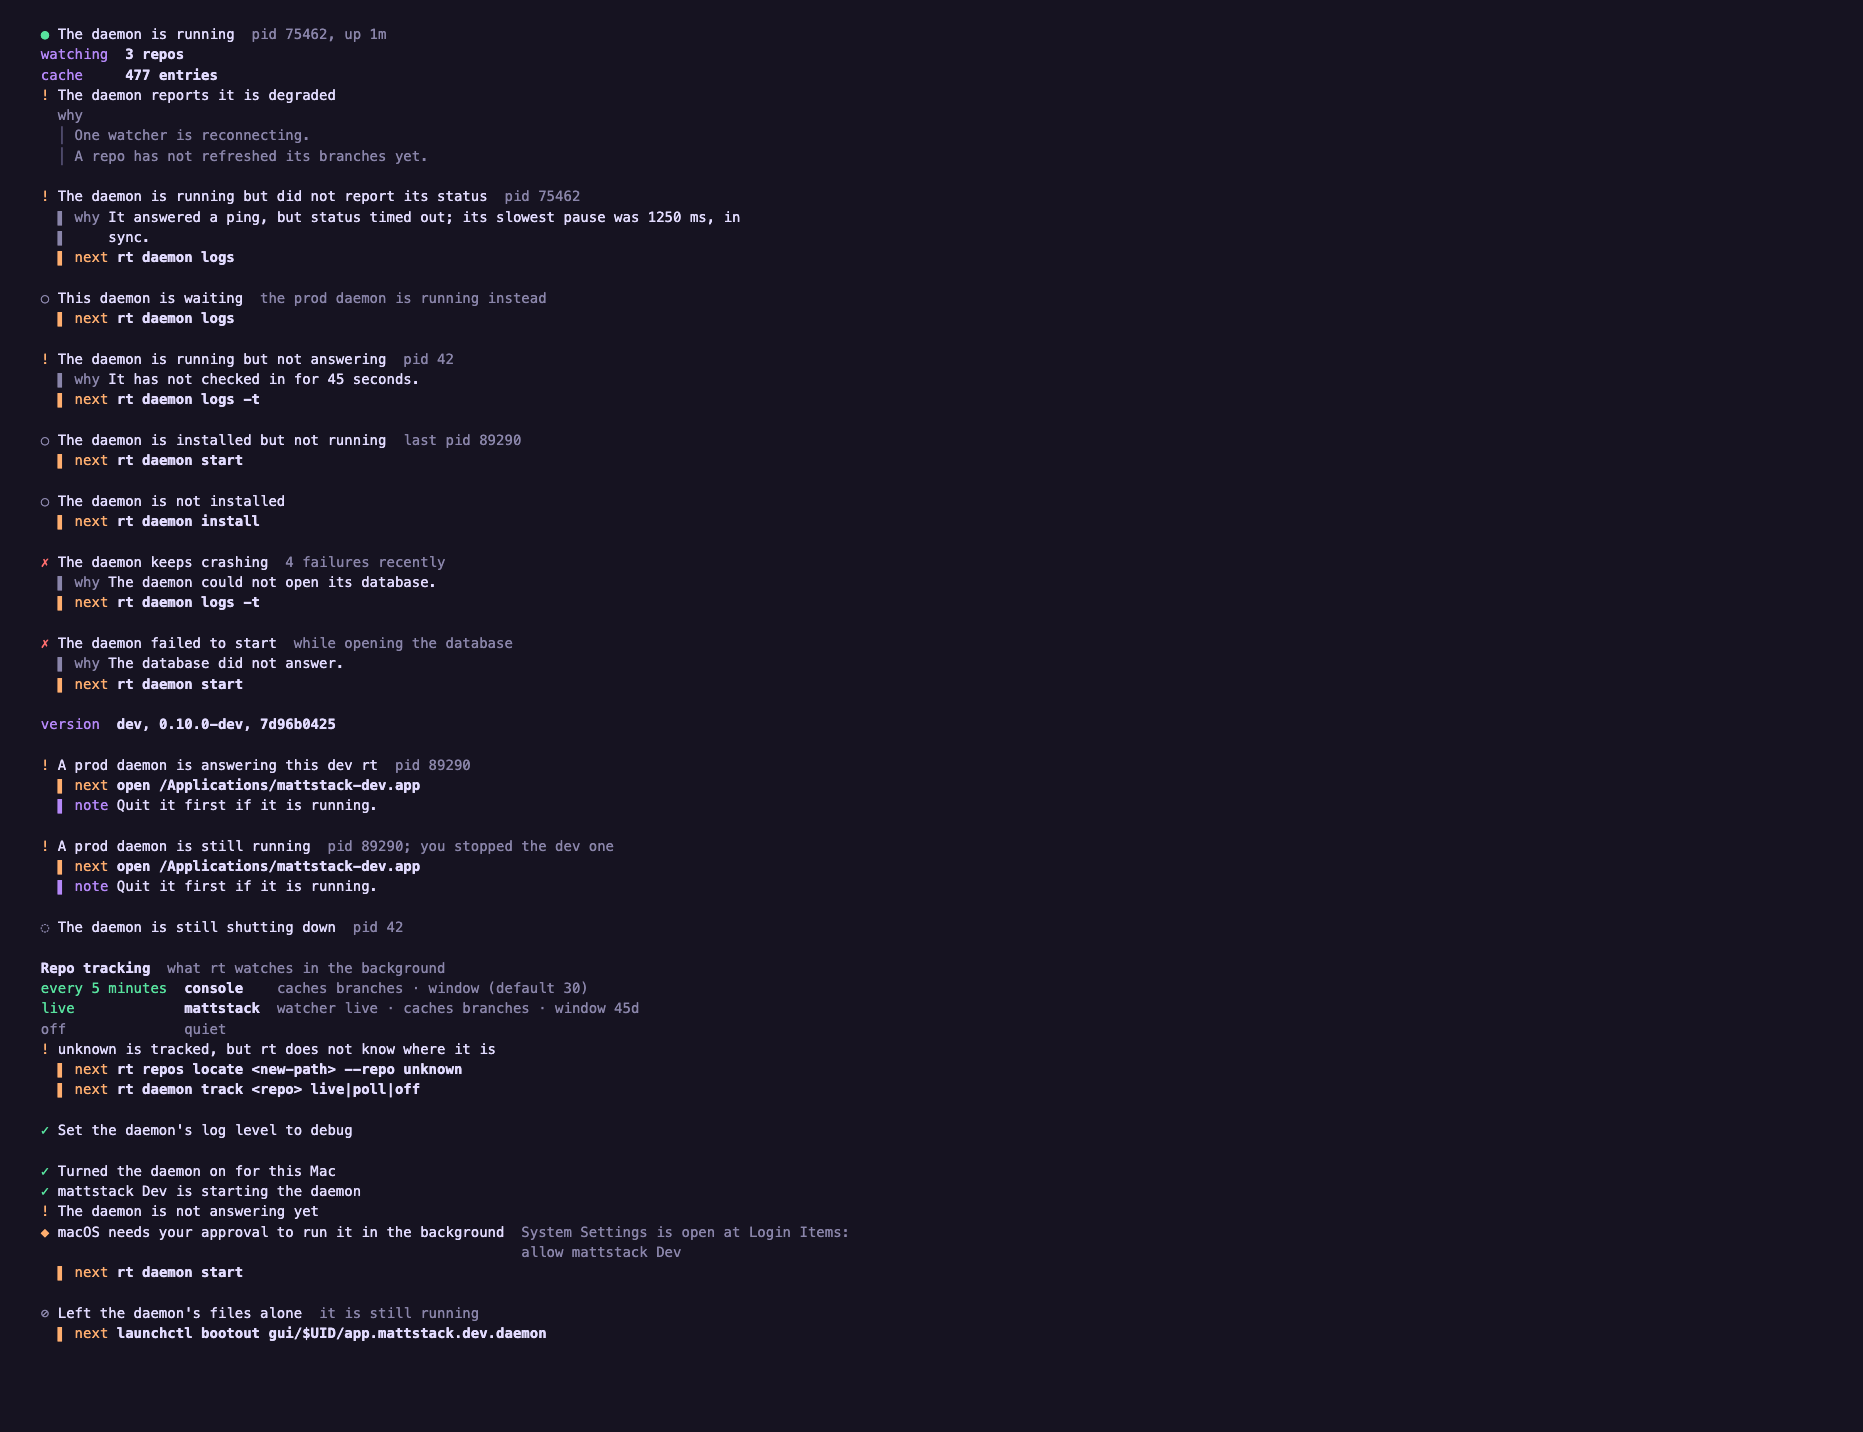
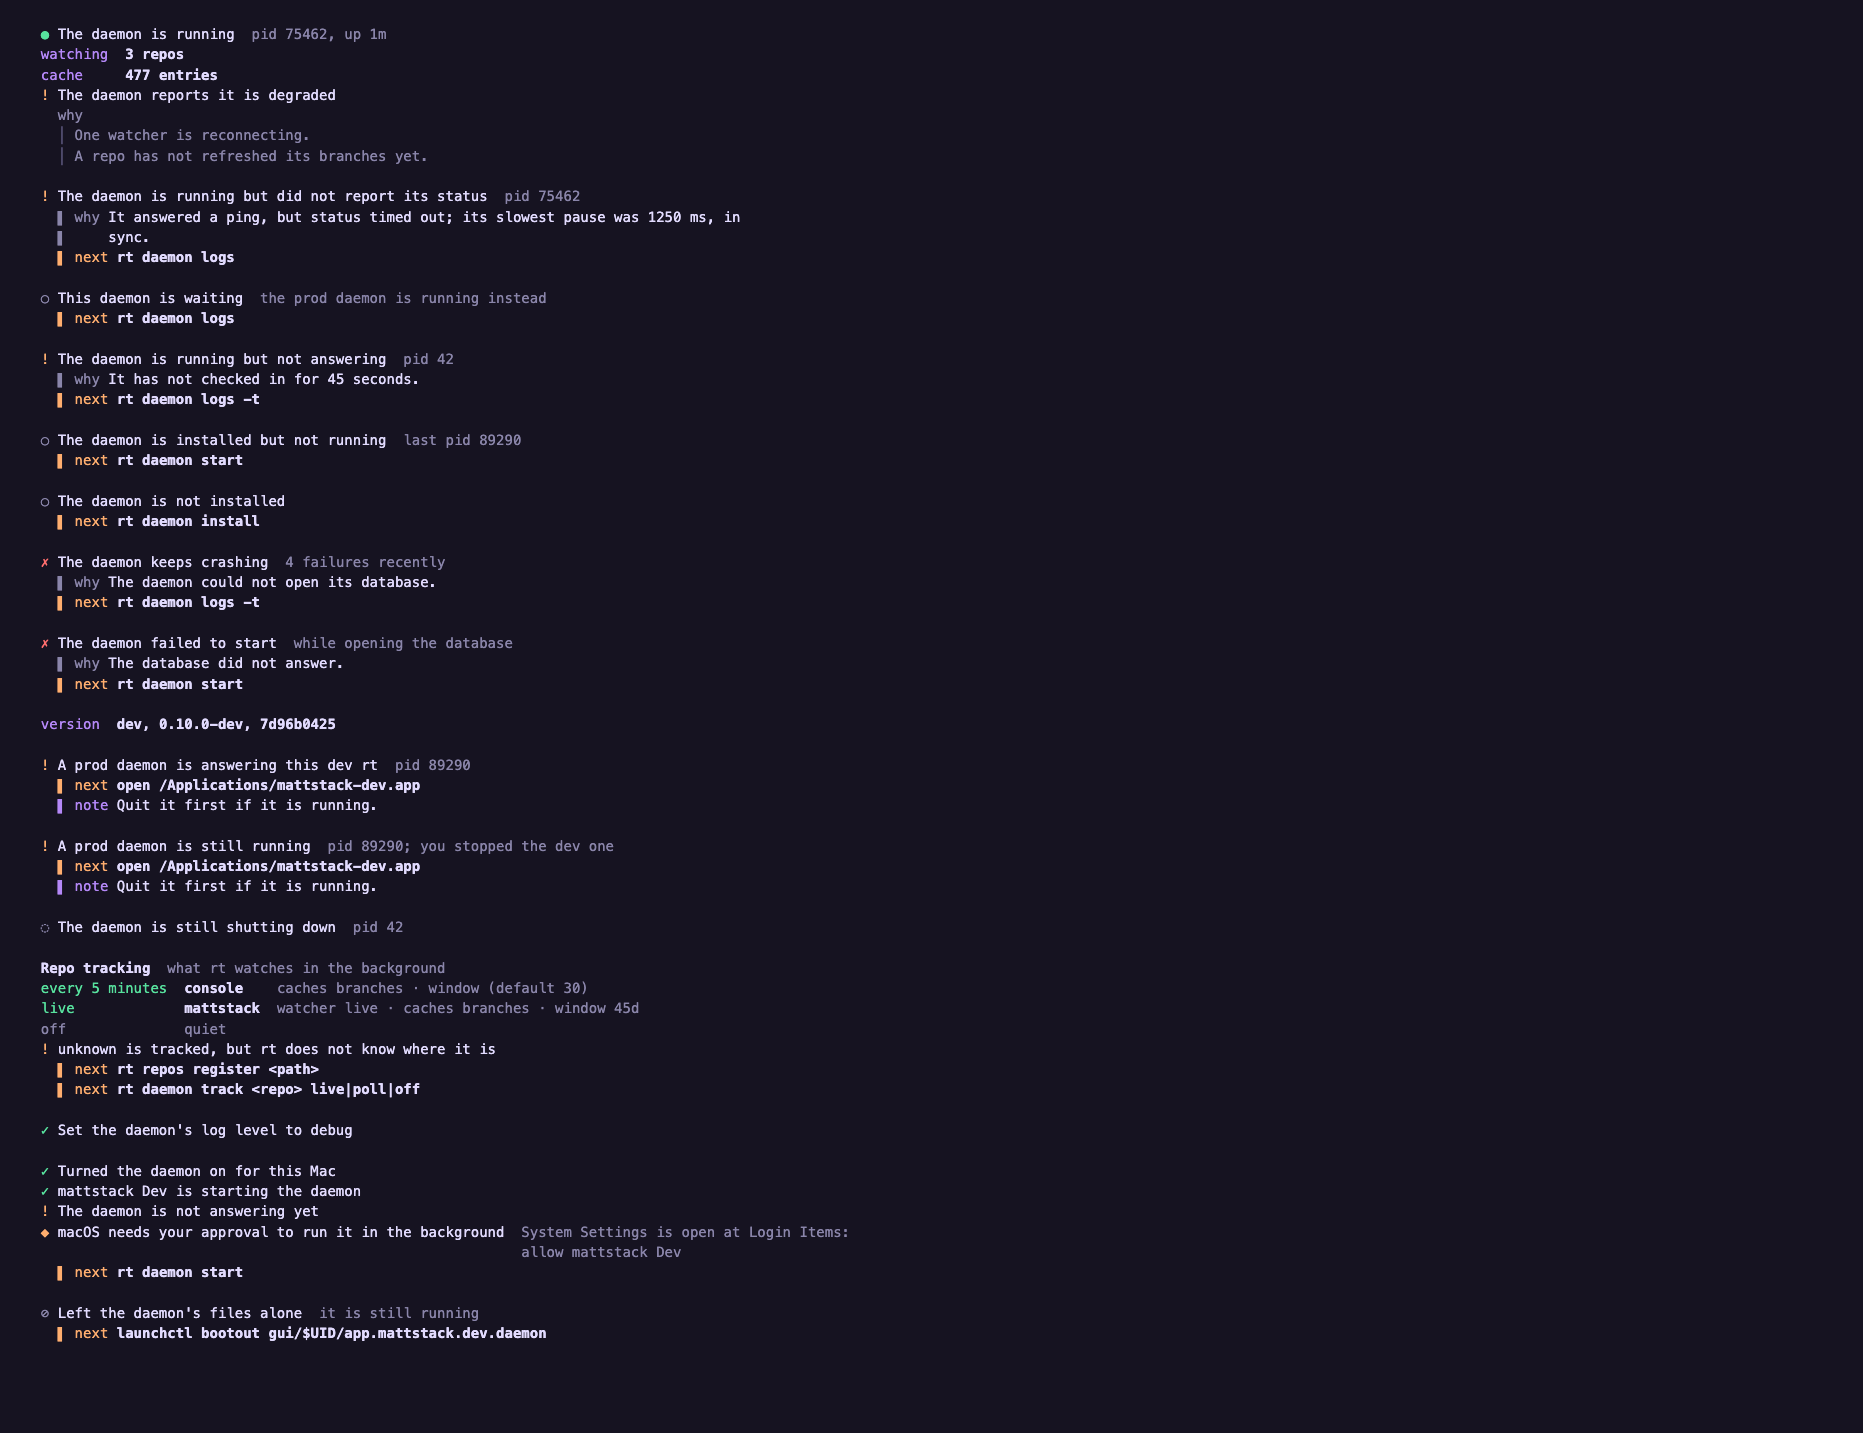
fix: correct daemon registration and request failure guidance

diff --git a/commands/daemon.ts b/commands/daemon.ts
@@ -584,7 +584,7 @@ export function trackListBlocks(repos: Record<string, string>, tracking: Record<
   }
   const blocks: Block[] = [out.section("Repo tracking", "what rt watches in the background", out.table(rows))];
   for (const identity of Object.keys(tracking).filter((n) => !repos[n])) {
-    blocks.push(out.line("warn", `${trackingLabel(identity)} is tracked, but rt does not know where it is`), out.callout("next", out.cmd(`rt repos locate <new-path> --repo ${trackingLabel(identity)}`)));
+    blocks.push(out.line("warn", `${trackingLabel(identity)} is tracked, but rt does not know where it is`), out.callout("next", out.cmd("rt repos register <path>")));
   }
   blocks.push(out.callout("next", out.cmd("rt daemon track <repo> live|poll|off")));
   return blocks;
@@ -651,7 +651,7 @@ export async function manageTracking(args: string[] = []): Promise<void> {
   let interactiveWindowDays: number | null | undefined; // undefined = untouched, null = clear
   if (!levelArg) {
     if (!resolved) {
-      out.fail({ title: `rt does not know a repo called ${repoArg}`, next: out.cmd(`rt repos locate <path> --repo ${repoArg}`) });
+      out.fail({ title: `rt does not know a repo called ${repoArg}`, next: out.cmd("rt repos register <path>") });
       return;
     }
     const identity = resolved.identity;
@@ -739,7 +739,7 @@ export async function manageTracking(args: string[] = []): Promise<void> {
   if (levelArg2 !== "off") {
     const repoPath = resolved?.path ?? null;
     if (!repoPath) {
-      out.fail({ title: `rt does not know a repo called ${repoArg}`, next: out.cmd(`rt repos locate <path> --repo ${repoArg}`) });
+      out.fail({ title: `rt does not know a repo called ${repoArg}`, next: out.cmd("rt repos register <path>") });
       return;
     }
     if (levelArg2 === "live") {
@@ -826,7 +826,7 @@ export async function manageTracking(args: string[] = []): Promise<void> {
     out.print(out.kv("live watchers", watching.length > 0 ? watching.join(", ") : "none"));
     if (levelArg2 !== "off") await daemonQuery("cache:refresh");
   } else {
-    out.print(out.line("pending", "The daemon is not running", "this applies when it next starts"));
+    out.print(out.line("pending", "The daemon did not apply this tracking change", "this applies when it next starts or refreshes"));
   }
 }
 
@@ -883,7 +883,7 @@ export async function showLogs(args: string[] = []): Promise<void> {
           : null;
       const { show } = nativeStderrDisplay(mtimeMs, daemonStartedAt);
       if (show) {
-        out.print(out.line("warn", "The daemon crashed since it last started", `captured ${new Date(mtimeMs).toLocaleString()}`), out.verbatim(content.split("\n").slice(-20), "what it printed"));
+        out.print(out.line("warn", daemonStartedAt === null ? "The daemon has captured native output" : "The daemon crashed since it last started", `captured ${new Date(mtimeMs).toLocaleString()}`), out.verbatim(content.split("\n").slice(-20), "what it printed"));
       } else {
         out.print(out.line("skipped", "No crash since this daemon started"));
       }
@@ -1181,7 +1181,7 @@ export async function setLogLevel(args: string[] = []): Promise<void> {
   const level = args.find((a) => !a.startsWith("--"));
   const res = await daemonQuery("daemon:log-level", level ? { level } : {});
   if (!res) {
-    out.fail({ title: "The daemon is not running", next: out.cmd("rt daemon start") });
+    out.fail({ title: "The daemon did not answer the log level request", next: out.cmd("rt daemon status") });
     return;
   }
   if (json) {

diff --git a/commands/__tests__/daemon-tracking.test.ts b/commands/__tests__/daemon-tracking.test.ts
@@ -28,6 +28,7 @@ import { machineSettingsPath, teamSettingsPath } from "../../lib/rt-paths.ts";
 import { getSetting } from "../../lib/settings/resolve.ts";
 import { serializeIdentity } from "../../lib/settings/identity.ts";
 import { deleteKvValue, getKvValue, setKvValue } from "../../lib/state/index.ts";
+import { DAEMON_SOCK_PATH } from "../../lib/daemon-config.ts";
 import { manageTracking, trackListBlocks } from "../daemon.ts";
 
 const REPO_NAME = "rt-rider-cli-wiring-repo";
@@ -135,6 +136,8 @@ describe("manageTracking off-branch (CLI wiring)", () => {
   test("poll prints its cadence and live refusal leaves the grant unchanged", async () => {
     await manageTracking([REPO_NAME, "poll"]);
     expect(io.stdout()).toContain(`[ok] Tracking ${REPO_NAME}: every 5 minutes`);
+    expect(io.stdout()).toContain("The daemon did not apply this tracking change");
+    expect(io.stdout()).toContain("this applies when it next starts or refreshes");
     const saved = getSetting<Record<string, unknown>>("rt.repoTracking").value;
     io.clear();
     await manageTracking([REPO_NAME, "live"]);
@@ -153,6 +156,31 @@ describe("manageTracking off-branch (CLI wiring)", () => {
     await manageTracking([REPO_NAME, "poll", "bad-cache"]);
     expect(io.stderr()).toContain('"bad-cache" has a cache rt does not know');
     expect(getSetting<Record<string, unknown>>("rt.repoTracking").value).toEqual(saved);
+  });
+
+  test("unknown repo guidance registers a checkout without changing tracking", async () => {
+    const saved = getSetting<Record<string, unknown>>("rt.repoTracking").value;
+    for (const args of [["rt-unknown-final-fix"], ["rt-unknown-final-fix", "poll"]]) {
+      io.clear();
+      await manageTracking(args);
+      expect(io.stderr()).toContain("next: rt repos register <path>");
+      expect(getSetting<Record<string, unknown>>("rt.repoTracking").value).toEqual(saved);
+    }
+  });
+
+  test("a rejected reconcile preserves intent and describes the unsuccessful request", async () => {
+    mkdirSync(dirname(DAEMON_SOCK_PATH), { recursive: true });
+    const server = Bun.serve({ unix: DAEMON_SOCK_PATH, fetch: () => Response.json({ ok: false, error: "busy" }) });
+    try {
+      await manageTracking([REPO_NAME, "poll"]);
+      expect(io.stdout()).toContain("The daemon did not apply this tracking change");
+      expect(io.stdout()).toContain("this applies when it next starts or refreshes");
+      expect(io.stdout()).not.toContain("The daemon is not running");
+      expect(getSetting<Record<string, unknown>>("rt.repoTracking").value[SERIALIZED]).toEqual({ mode: "poll", caches: ["branches"] });
+    } finally {
+      server.stop(true);
+      rmSync(DAEMON_SOCK_PATH, { force: true });
+    }
   });
 
   test("off on a repo the team no longer names deletes outright", async () => {
@@ -180,5 +208,6 @@ test("the tracking list is one table, off repos quiet, unknown tracked repos fla
   expect(text).toContain("watcher starting");
   expect(text).toContain("[warning] gone is tracked, but rt does not know where it is");
   expect(text).toContain("next: rt daemon track <repo> live|poll|off");
+  expect(text).toContain("next: rt repos register <path>");
   expect(text).not.toContain("remote:");
 });

diff --git a/commands/__tests__/daemon-json.test.ts b/commands/__tests__/daemon-json.test.ts
@@ -3,13 +3,13 @@
  * rt_verb; their bytes must not move.
  */
 import { afterEach, beforeEach, expect, test } from "bun:test";
-import { mkdirSync, rmSync } from "fs";
-import { dirname } from "path";
+import { mkdirSync, rmSync, writeFileSync, existsSync, renameSync } from "fs";
+import { dirname, join } from "path";
 
 import * as ui from "../../lib/ui/out.ts";
 import { captureOut, type CapturedOut } from "../../lib/ui/__tests__/capture-out.ts";
-import { DAEMON_SOCK_PATH, markDaemonInstalled, markDaemonUninstalled } from "../../lib/daemon-config.ts";
-import { setLogLevel, showStatus } from "../daemon.ts";
+import { DAEMON_SOCK_PATH, LOG_DIR, markDaemonInstalled, markDaemonUninstalled } from "../../lib/daemon-config.ts";
+import { setLogLevel, showStatus, showLogs } from "../daemon.ts";
 
 let io: CapturedOut;
 let server: ReturnType<typeof Bun.serve> | undefined;
@@ -77,5 +77,47 @@ test("log-level --json passes the daemon's reply through", async () => {
 test("log-level --json with the daemon down leaves stdout empty", async () => {
   await setLogLevel(["--json"]);
   expect(io.stdout()).toBe("");
-  expect(io.stderr()).toStartWith("The daemon is not running\n");
+  expect(io.stderr()).toStartWith("The daemon did not answer the log level request\n");
+});
+
+
+test("a live log level timeout leaves JSON stdout empty without claiming the daemon stopped", async () => {
+  mkdirSync(dirname(DAEMON_SOCK_PATH), { recursive: true });
+  server = Bun.serve({ unix: DAEMON_SOCK_PATH, async fetch() {
+    await Bun.sleep(3000);
+    return Response.json({ ok: true, level: "info" });
+  } });
+  await setLogLevel(["--json"]);
+  expect(io.stdout()).toBe("");
+  expect(io.stderr()).toStartWith("The daemon did not answer the log level request\n");
+  expect(io.stderr()).toContain("next: rt daemon status");
+});
+
+test("log-level JSON preserves an unsuccessful live reply", async () => {
+  replies = { "daemon:log-level": { ok: false, error: "busy" } };
+  fakeDaemon();
+  await setLogLevel(["--json"]);
+  expect(io.stdout()).toBe('{"ok":false,"error":"busy"}\n');
+  expect(io.stderr()).toBe("");
+});
+
+test.each([null, 0])("native output keeps its excerpt with boot time %p", async (startedAt) => {
+  const backup = `${LOG_DIR}-final-fix-backup`;
+  const hadLogs = existsSync(LOG_DIR);
+  if (hadLogs) renameSync(LOG_DIR, backup);
+  mkdirSync(LOG_DIR, { recursive: true });
+  const path = join(LOG_DIR, "daemon-stderr.log");
+  writeFileSync(path, "native diagnostic final fix");
+  replies = { ping: { ok: true, ...(startedAt === null ? {} : { startedAt }) } };
+  fakeDaemon();
+  try {
+    await showLogs();
+    expect(io.stdout()).toContain(startedAt === null ? "The daemon has captured native output" : "The daemon crashed since it last started");
+    expect(io.stdout()).toContain("captured ");
+    expect(io.stdout()).toContain("native diagnostic final fix");
+    if (startedAt === null) expect(io.stdout()).not.toContain("crashed since it last started");
+  } finally {
+    rmSync(LOG_DIR, { recursive: true, force: true });
+    if (hadLogs) renameSync(backup, LOG_DIR);
+  }
 });
